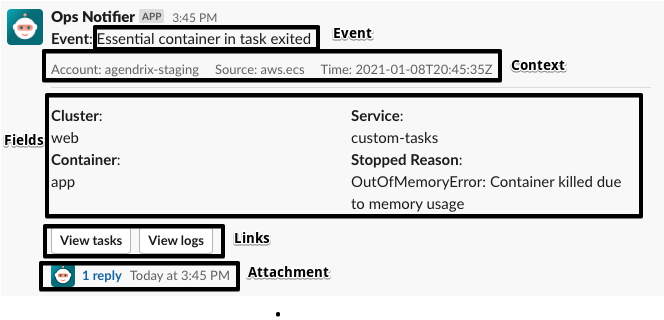
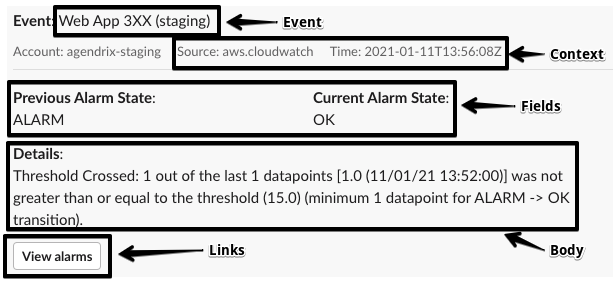
Update read.me

diff --git a/README.md b/README.md
@@ -17,6 +17,7 @@ type Payload = {
   event: string;
   context: Array<Text> | undefined;
   fields: Array<Text> | undefined;
+  body: Text | undefined;
   links: Array<Link> | undefined;
   attachment: object | undefined;
 };
@@ -34,9 +35,11 @@ type Text = {
 
 `event`: String representing the event name. Required
 
-`context`: Object containing event context information (Time, Event Source, etc). Optional
+`context`: Array containing event context information (Time, Event Source, etc). Optional
 
-`fields`: Object containing event details. Each key value pair will be rendered in the main message section. Optional
+`fields`: Array containing event details. Field objects will be rendered side by side. Optional
+
+`boyd`: Message body. Optional
 
 `links`: Array containing Link objects. Each Link will be rendered has a button. Optional
 
@@ -60,28 +63,24 @@ module "eventbridge_slack_notifier" {
   }
 
   event_pattern = jsonencode({
-    source      = ["aws.ecs"]
-    detail-type = ["ECS Task State Change"]
-    detail = {
-      lastStatus    = ["STOPPED"],
-      stoppedReason = ["Essential container in task exited"]
-      clusterArn    = [aws_ecs_cluster.cluster.arn]
-    }
+    source      = ["aws.cloudwatch"]
+    detail-type = ["CloudWatch Alarm State Change"]
   })
 
 
   input_transformer = {
     input_paths = {
-      event          = "$.detail.stoppedReason"
-      source         = "$.source"
-      time           = "$.time"
-      container      = "$.detail.containers[0].name"
-      service        = "$.detail.group"
+      source                     = "$.source"
+      time                       = "$.time"
+      alarm                      = "$.detail.alarmName"
+      previous_state_value       = "$.detail.previousState.value"
+      current_state_value        = "$.detail.state.value"
+      current_state_value_reason = "$.detail.state.reason"
     }
 
     input_template = <<EOF
     {
-      "event": <event>,
+      "event": <alarm>,
       "context": [
         {
           "label": "Source",
@@ -94,27 +93,24 @@ module "eventbridge_slack_notifier" {
       ],
       "fields": [
         {
-          "label": "Cluster",
-          "text": "${aws_ecs_cluster.cluster.name}"
+          "label": "Previous Alarm State",
+          "text": <previous_state_value>
         },
         {
-          "label": "Service",
-          "text": <service>
-        },
-        {
-          "label": "Container",
-          "text": <container>
-        },
+          "label": "Current Alarm State",
+          "text": <current_state_value>
+        }
       ],
+      "body": {
+        "label": "Details",
+        "text": <current_state_value_reason>
+      },
       "links": [
         {
-          "label": "View tasks",
-          "url": "https://ca-central-1.console.aws.amazon.com/ecs/home?region=ca-central-1#/clusters/${aws_ecs_cluster.cluster.name}/tasks"
-        },
-      ],
-      "attachment": {
-        "event" : <aws.events.event>,
-      }
+          "label": "View alarms",
+          "url": "https://ca-central-1.console.aws.amazon.com/cloudwatch/home?region=ca-central-1#alarmsV2:"
+        }
+      ]
     }
     EOF
   }
